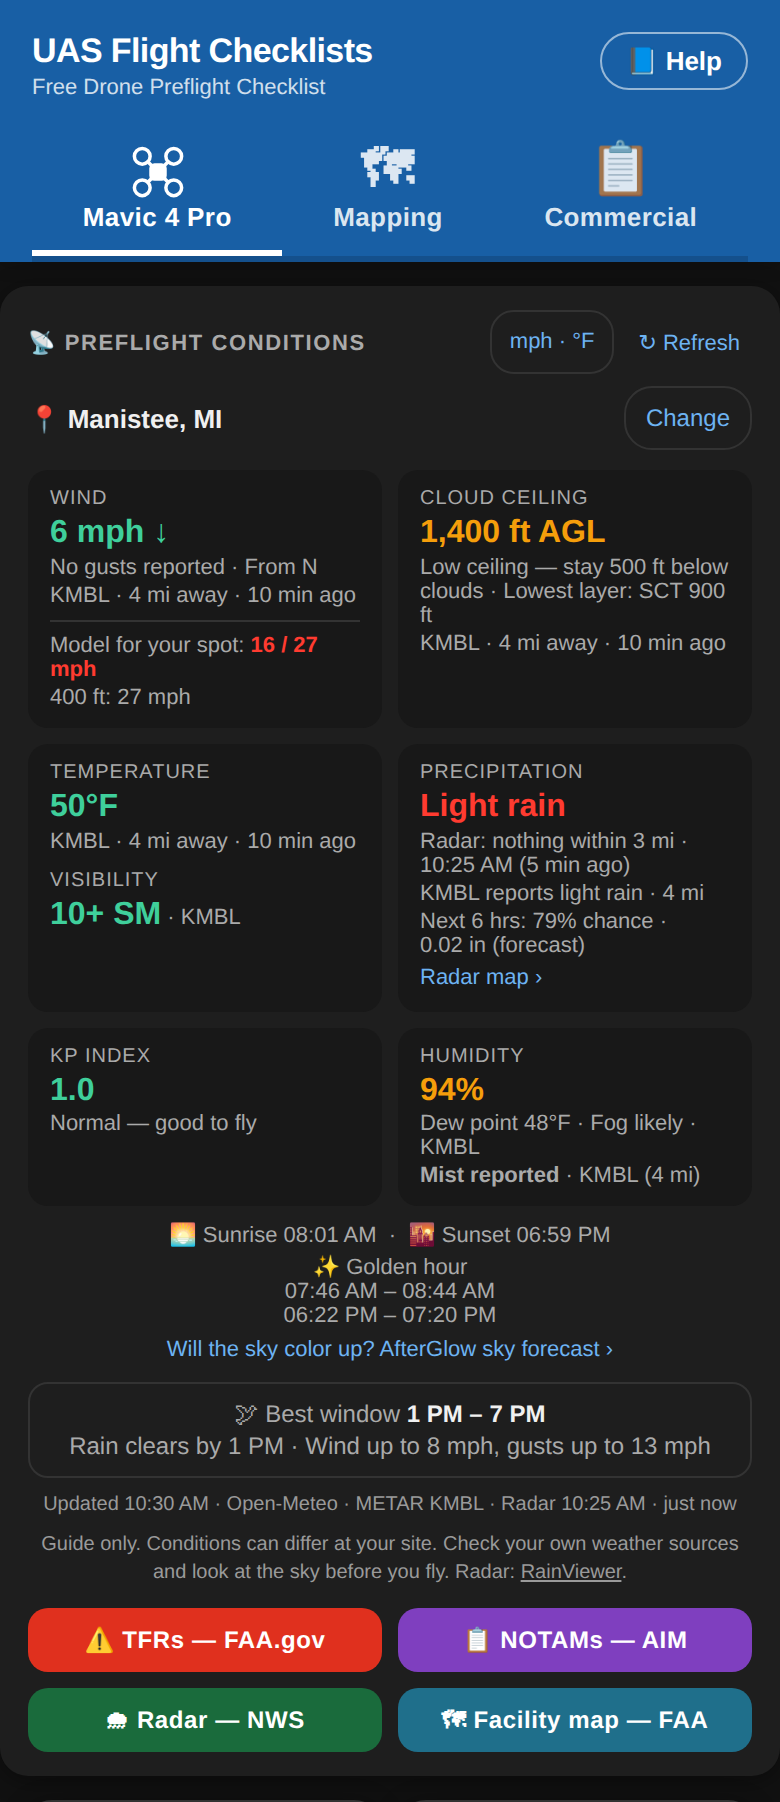
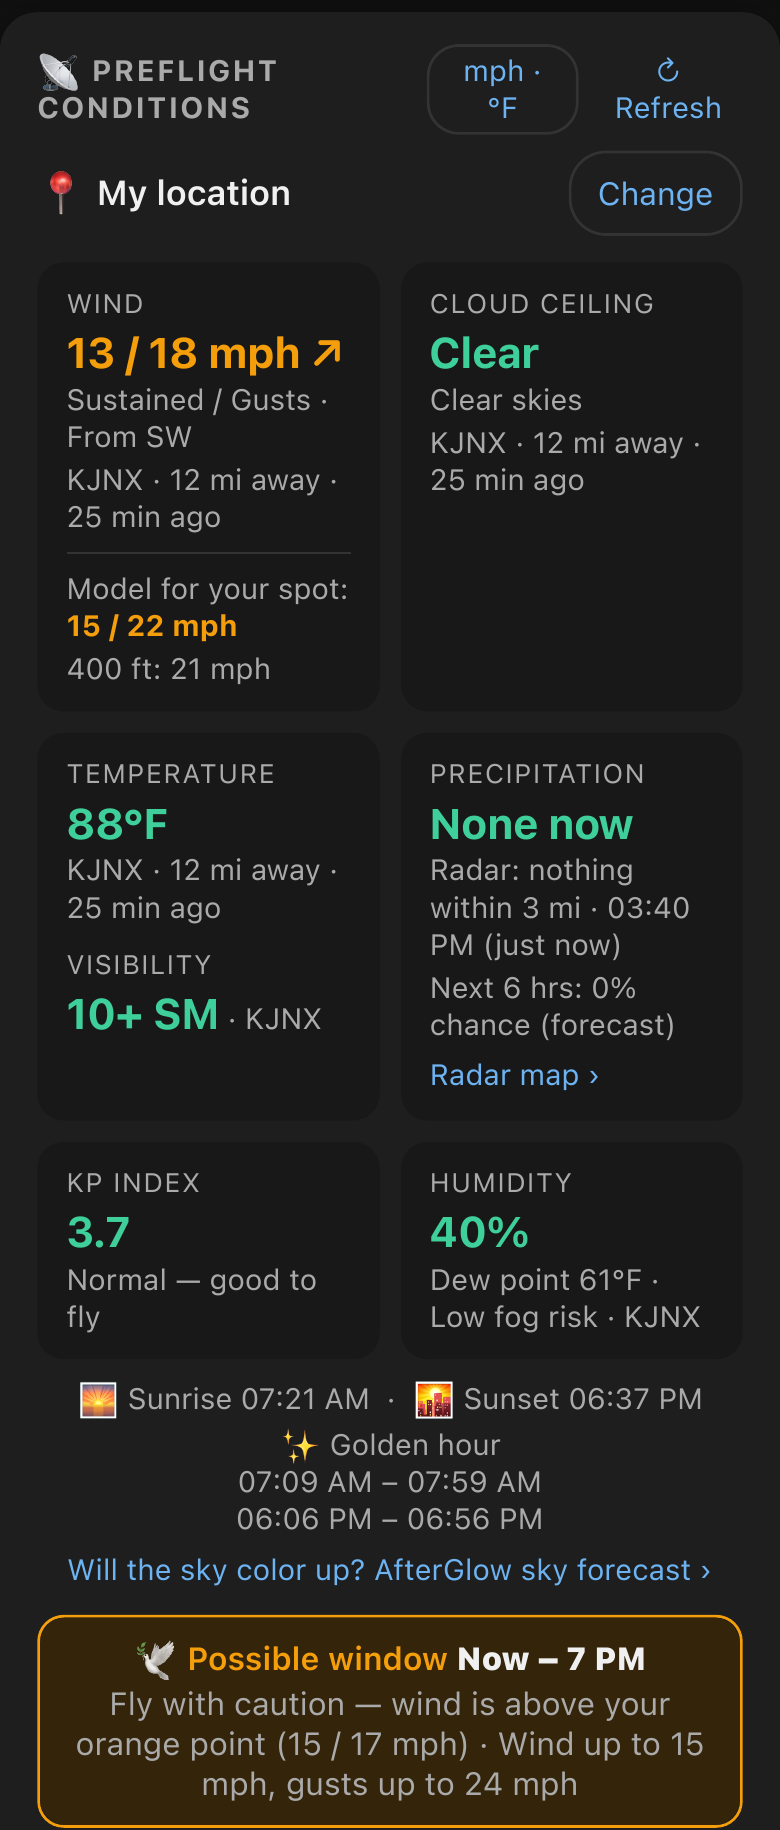
Docs: new live-conditions screenshots showing the orange Possible window
Screenshots 08-conditions (light and dark) retaken from the live v3.9.2 on
an iPhone, and the README alt text updated to match. App unchanged (v3.9.2).

Claude-Session: https://claude.ai/code/session_01Rz8jPx2t2VhtvoTjPcbY9J

diff --git a/README.md b/README.md
@@ -14,7 +14,7 @@ A free, mobile-friendly drone preflight checklist web app with live weather cond
 
 <table>
   <tr>
-    <td align="center" width="50%"><picture><source media="(prefers-color-scheme: dark)" srcset="screenshots/08-conditions-dark.png"><img src="screenshots/08-conditions-light.png" alt="Live preflight conditions on a rainy morning: gusty model wind in red, a low cloud ceiling and humidity in orange, light rain in red, and a Best window suggestion for later in the day" width="170"></picture><br><sub><b>Live conditions</b></sub></td>
+    <td align="center" width="50%"><picture><source media="(prefers-color-scheme: dark)" srcset="screenshots/08-conditions-dark.png"><img src="screenshots/08-conditions-light.png" alt="Live preflight conditions on a breezy afternoon: wind in orange, clear skies, no precipitation, and an orange Possible window box that says Fly with caution" width="170"></picture><br><sub><b>Live conditions</b></sub></td>
     <td align="center" width="50%"><picture><source media="(prefers-color-scheme: dark)" srcset="screenshots/01-checklist-dark.png"><img src="screenshots/01-checklist-light.png" alt="Checklist with progress bar, Before leaving home items and checked boxes" width="170"></picture><br><sub><b>Checklist</b></sub></td>
   </tr>
   <tr>
